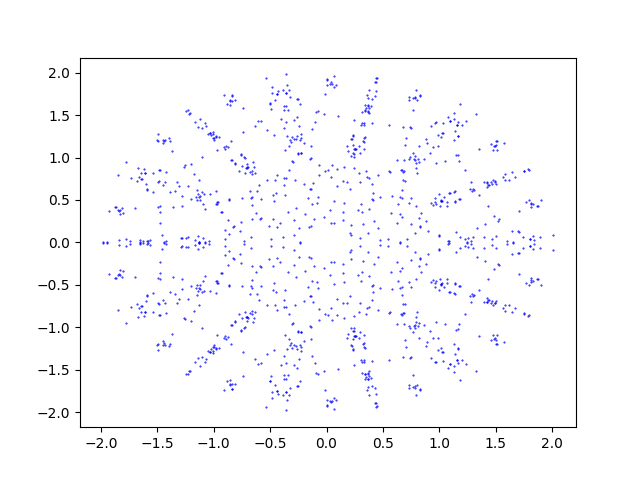
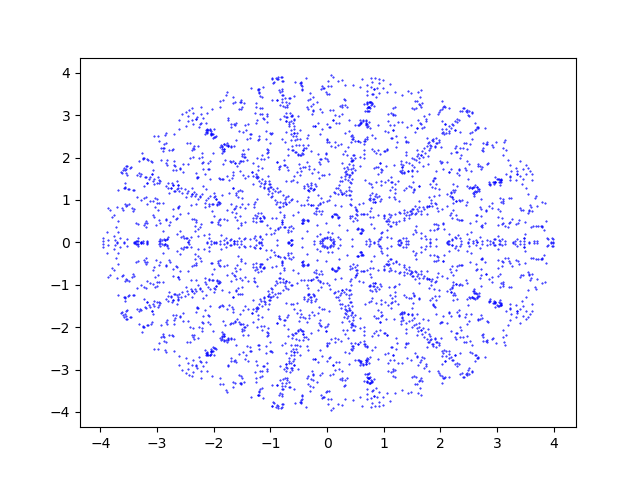
huuh

diff --git a/basic_ray_tracer.py b/basic_ray_tracer.py
@@ -1,14 +1,17 @@
 import numpy as np
 from plotoptix import TkOptiX,NpOptiX
 from plotoptix.enums import Geometry
-from plotoptix.materials import m_dispersive_glass
+from plotoptix.materials import m_dispersive_glass, m_clear_glass
+import matplotlib.pyplot as plt # will show PlotOptiX output inline
+import sys
+
+import math
+from plotoptix import NpOptiX
 
 input_path="./Nice_flake/"
 output_path="./Renders"
 # dataname=r"full_save.npz"
 # points= np.load(input_path+dataname,"r+")["arr_0"]
-
-
 
 rad = 0.1
 
@@ -20,6 +23,18 @@ rad = 0.1
 
 plot = TkOptiX()
 plot.setup_material("ice",m_dispersive_glass)
+
+
+fname = str(sys.argv[1])
+
+plot.set_float("tonemap_exposure", 0.9)
+plot.set_float("tonemap_gamma", 1.4)
+plot.add_postproc("Gamma")
+
+plot.set_background_mode("TextureFixed")
+# plot.setup_light("l1", color=1*np.array([0.99, 0.95, 0.9]), radius=3)
+plot.set_background(fname)
+plot.set_ambient(2)
 
 for i in range(1,6):
     points = np.load(input_path+str(i)+".npz","r+")["arr_0"]
@@ -38,3 +53,4 @@ for i in range(1,6):
 # plot.set_data("my plot", xyz, r=r)
 # plot.get_rt_size()
 plot.show()
+

diff --git a/simon_attempt.py b/simon_attempt.py
@@ -27,18 +27,15 @@ def cost(grid, pt):
     pt_y = np.imag(pt)
 
     _, res = np.polyfit(np.append(points_x, pt_x), np.append(points_y, pt_y), 1)
-    return min(1, 1 /np.abs(res) *(1/np.sqrt(N)) * 0.5)
+    return min(1, 1 /np.abs(res) *(1/np.sqrt(N)) * 0.8)
 
-niter = 5000
-angles = np.random.random_sample(niter)*2*np.pi / (n_slivers *2)
+niter = 10000
+angles = np.random.random_sample(100*niter)*2*np.pi / (n_slivers *2)
 
 grid = staring_grid.copy()
 
 #plt.scatter(np.real(grid), np.imag(grid))
-
 for i in range(niter):
-
-    
     far_point = np.mean(np.abs(grid)) + 1.8*np.std(np.abs(grid))
     variance = far_point/2
     mag = np.random.random_sample(2) 
